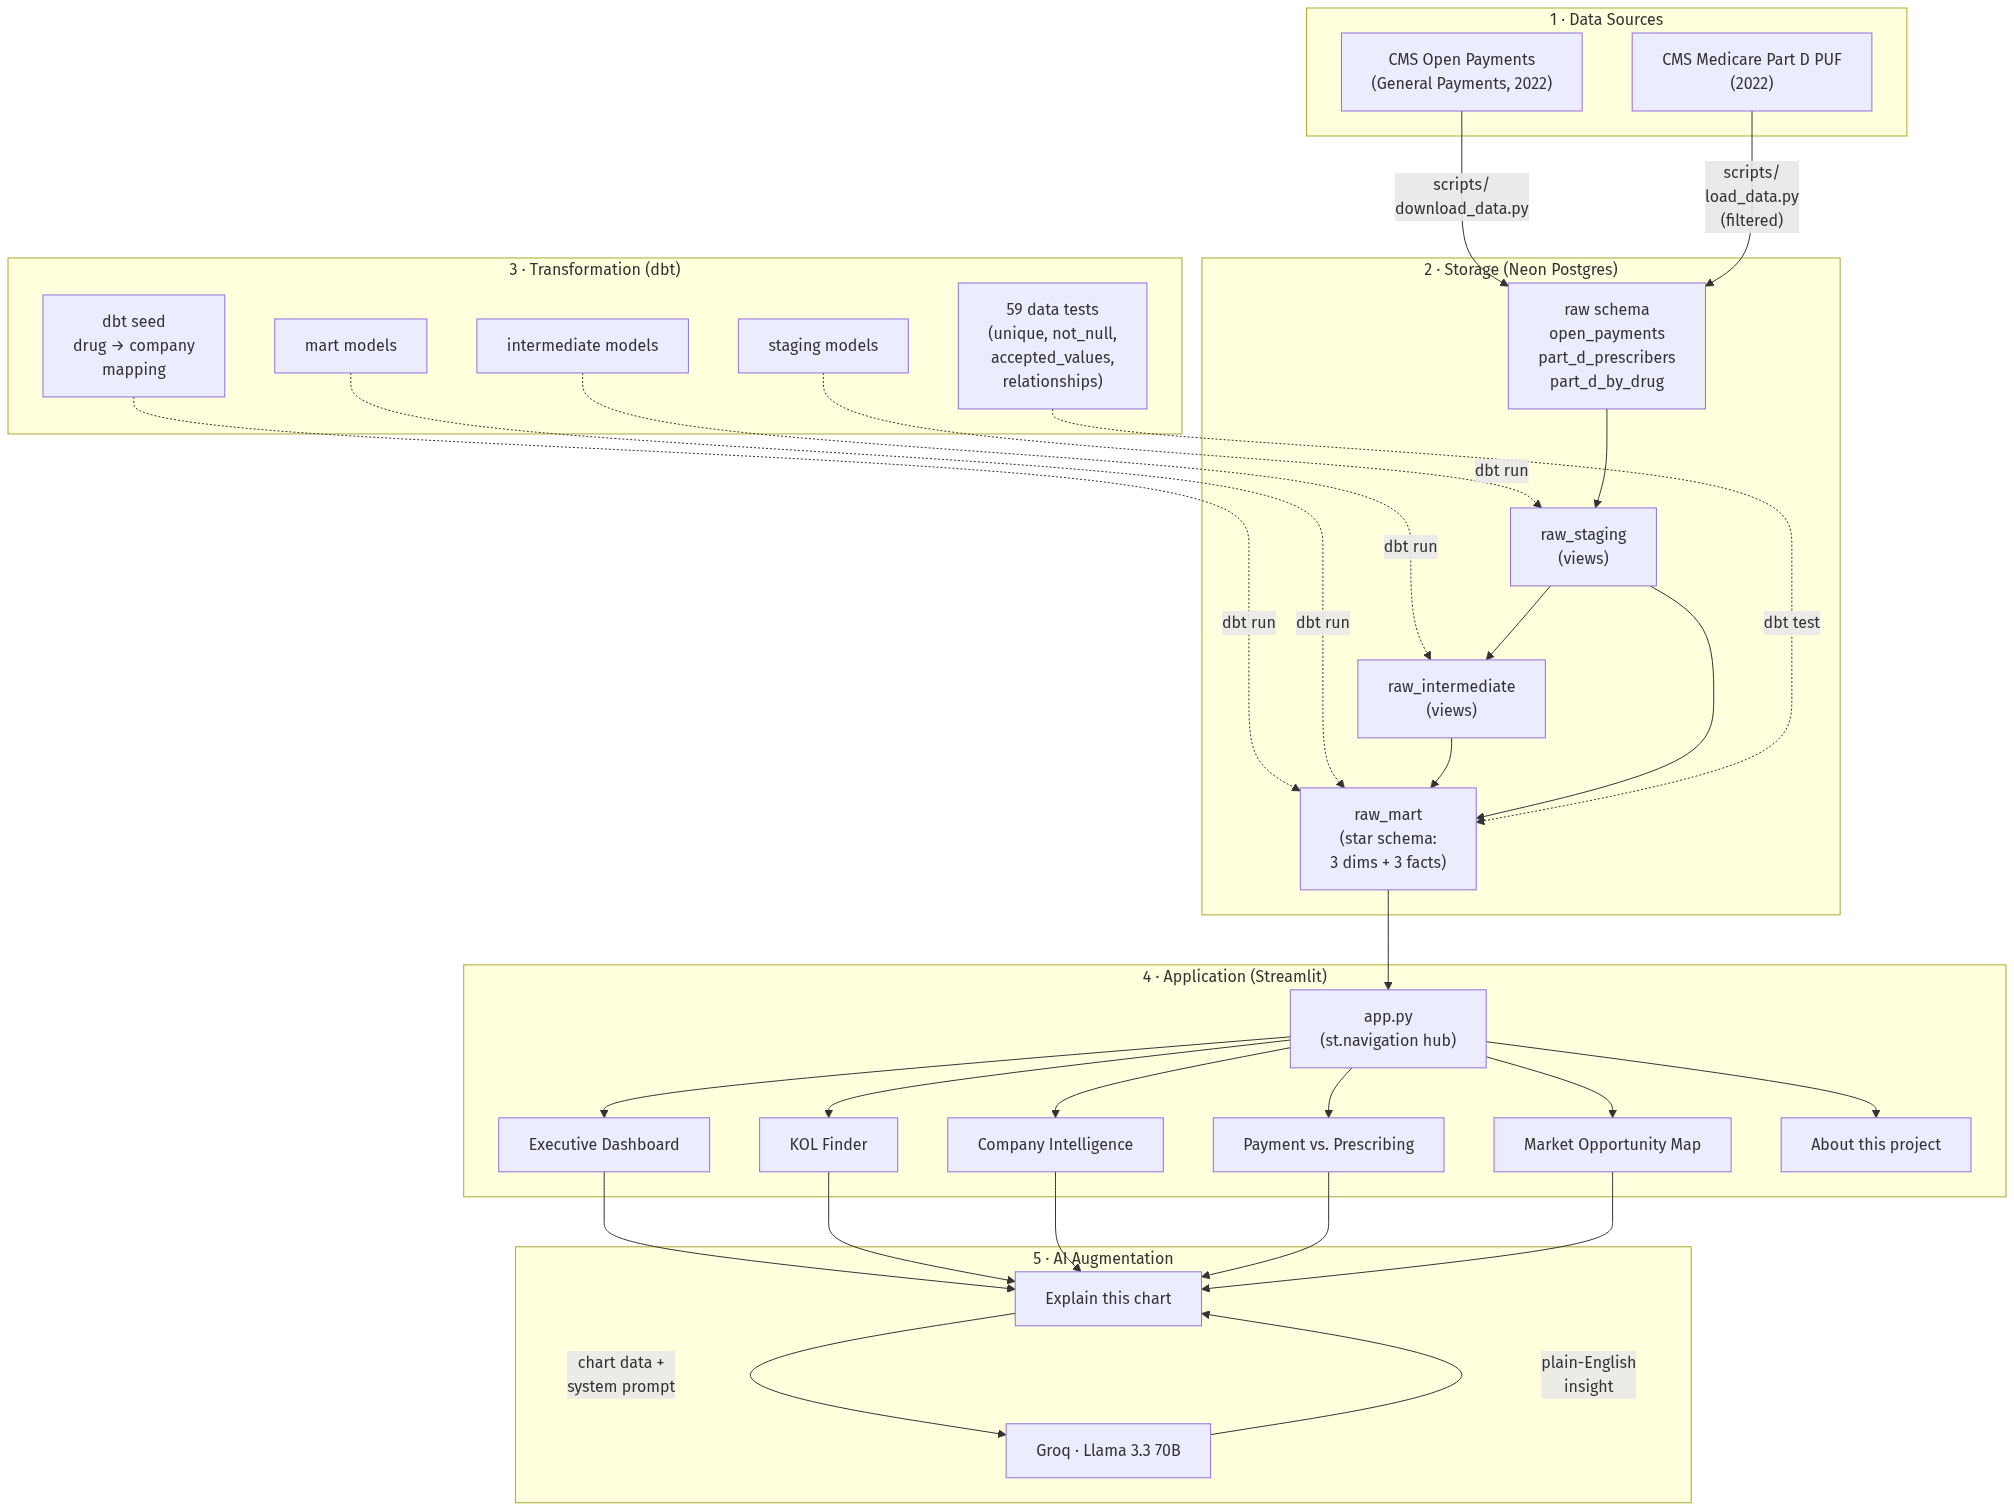
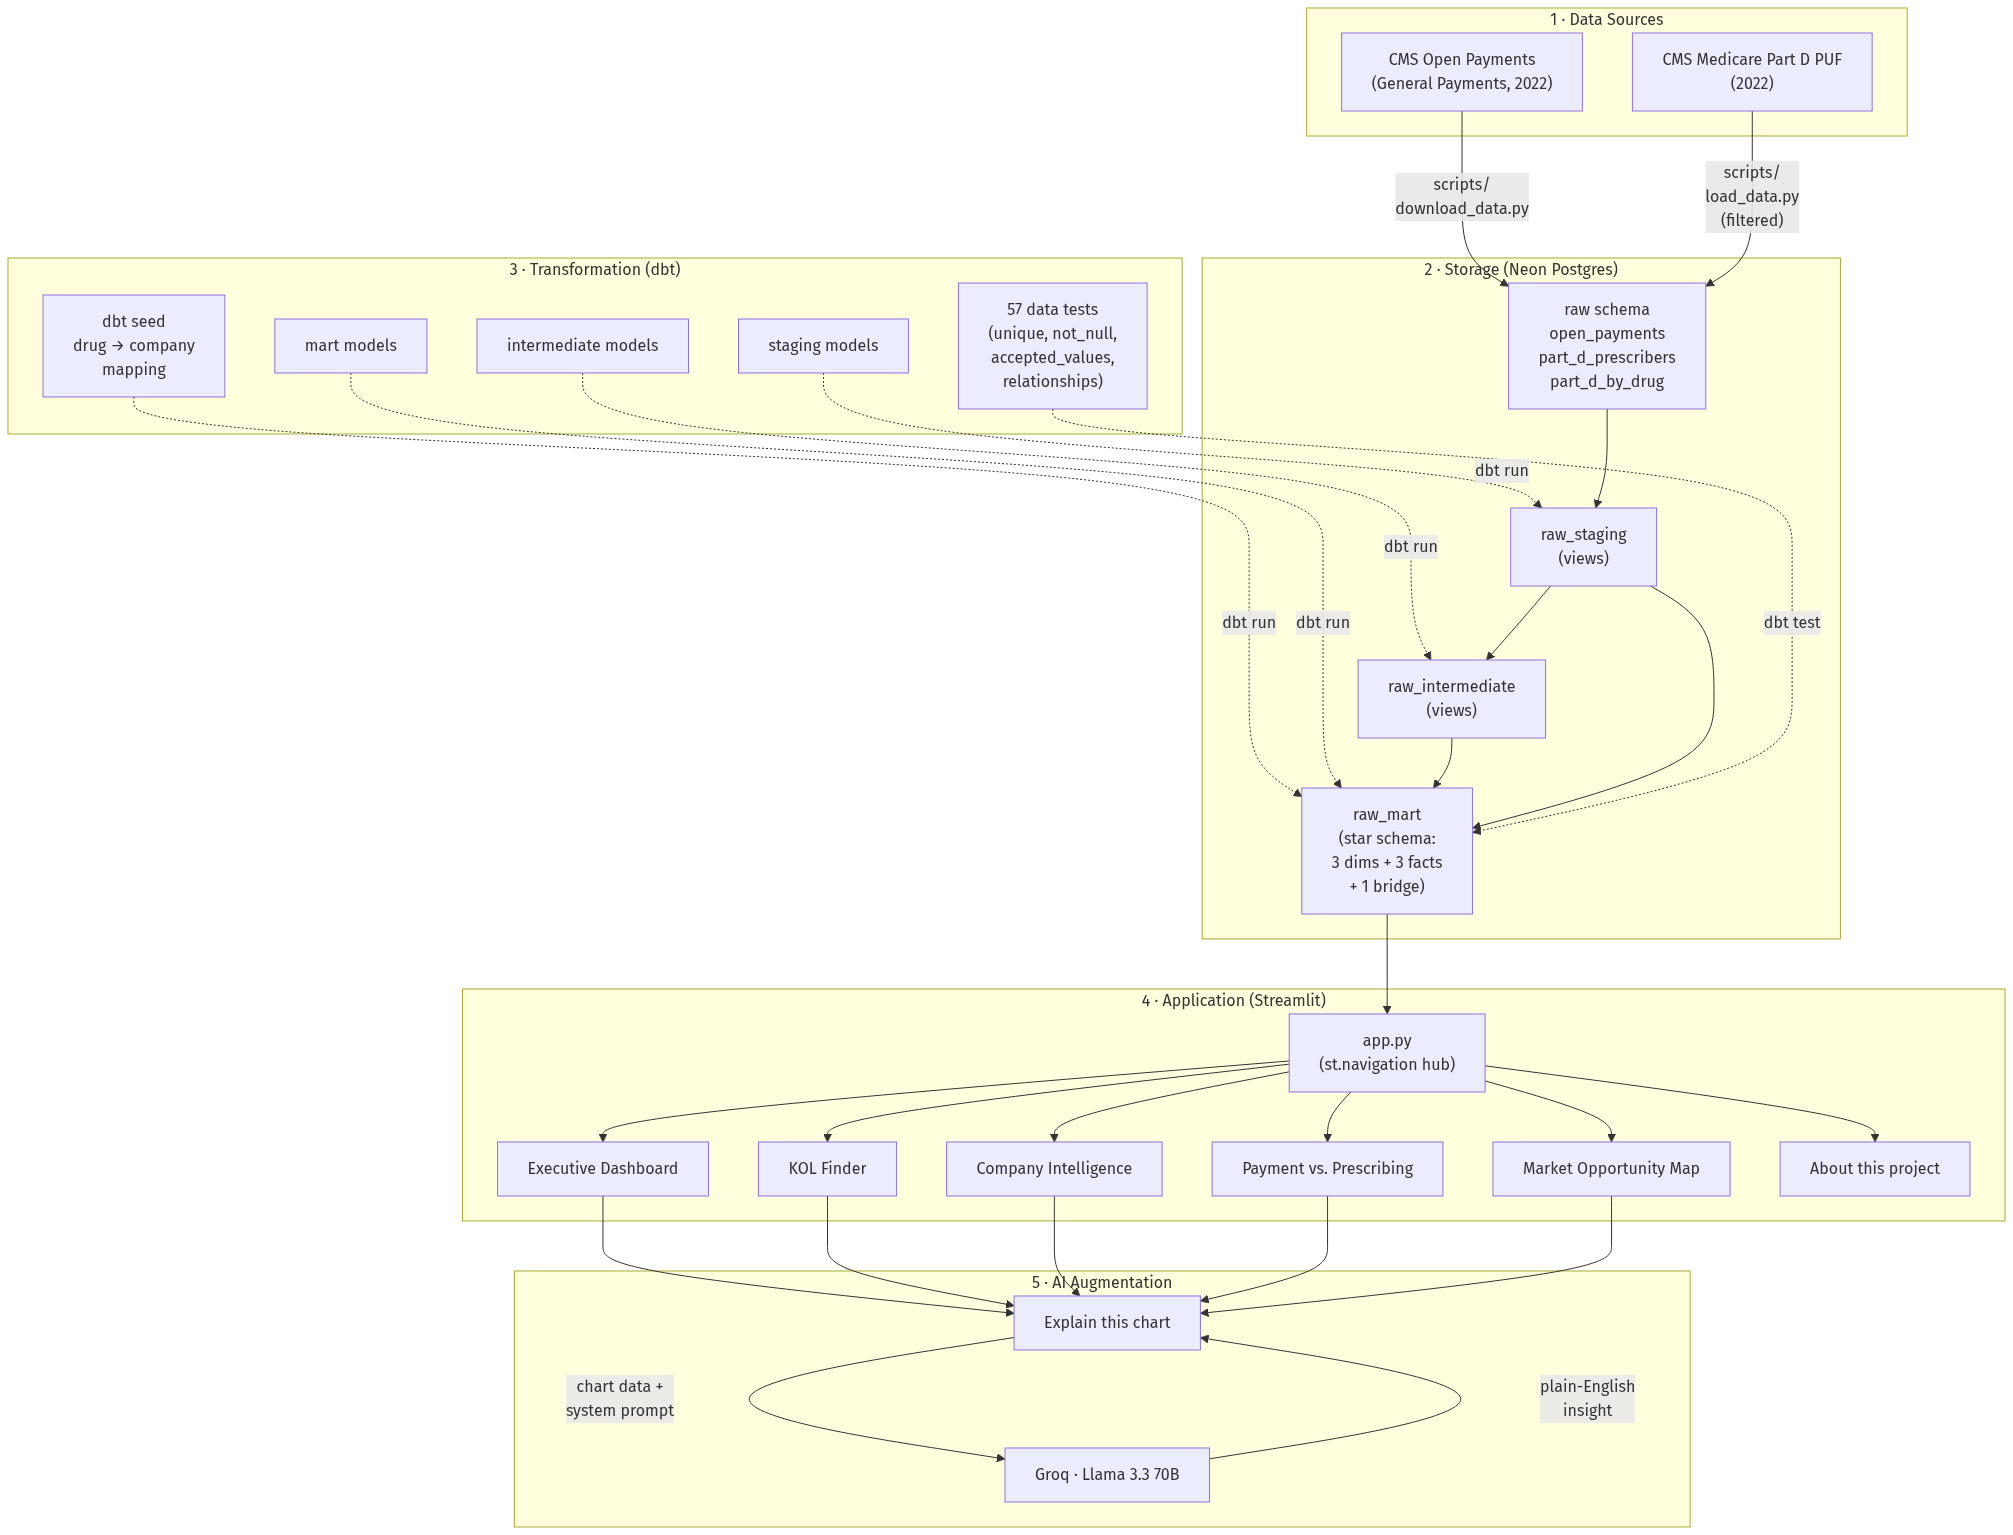
docs: sync to current model state (13 models, 57 tests, bridge)
After the KOL Finder perf fix (400x speedup), the project now has:
- 13 dbt models (was 12 — added bridge_physician_company_payments)
- 57 data-quality tests (was 59 — dropped two prescription_id tests
  when we slimmed fact_prescriptions)
- 3 dims + 3 facts + 1 helper bridge in the mart layer

Updated references across:
- README.md (architecture diagram counts, deep-dive link copy,
  setup test count)
- docs/ARCHITECTURE.md (mart count, dbt lineage diagram now shows
  bridge + indexed fact_prescriptions; rewrote the
  "materialization strategy" callout to explain the table-vs-view
  decisions and the perf rationale)
- docs/DATA_MODEL.md (added Helper subsection for the bridge,
  test-count breakdown, materialization column added to fact table)
- streamlit_app/views/about.py (13 models / 57 tests in the
  "What it demonstrates" bullet)
- docs/images/03-dbt-lineage.png regenerated with the bridge node
  visible in the mart subgraph

diff --git a/streamlit_app/views/about.py b/streamlit_app/views/about.py
@@ -43,9 +43,10 @@ sits behind the work that teams at ZS Associates, IQVIA, Komodo Health,
 AbbVie, and Tempus AI do every day for pharma clients. Specifically, it
 exercises:
 
-- **Analytics engineering** — a 12-model dbt project laid out in
+- **Analytics engineering** — a 13-model dbt project laid out in
   staging → intermediate → mart layers, with a proper star schema
-  (4 dimensions, 3 facts) and 59 passing data-quality tests
+  (3 dimensions, 3 facts, 1 helper bridge) and 57 passing
+  data-quality tests, indexed for fast filter lookups
 - **Advanced SQL** — window functions, percentile aggregations, full
   outer joins, CTE-based ranking, cross-source NPI matching
 - **Cloud data warehouse** — Neon Postgres on the free tier, with

diff --git a/docs/ARCHITECTURE.md b/docs/ARCHITECTURE.md
@@ -25,7 +25,7 @@ flowchart TB
         RAW["raw schema<br/>open_payments<br/>part_d_prescribers<br/>part_d_by_drug"]
         STG["raw_staging<br/>(views)"]
         INT["raw_intermediate<br/>(views)"]
-        MART["raw_mart<br/>(star schema:<br/>3 dims + 3 facts)"]
+        MART["raw_mart<br/>(star schema:<br/>3 dims + 3 facts<br/>+ 1 bridge)"]
     end
 
     subgraph TRANSFORM["3 · Transformation  (dbt)"]
@@ -33,7 +33,7 @@ flowchart TB
         STG_M["staging models"]
         INT_M["intermediate models"]
         MART_M["mart models"]
-        TESTS["59 data tests<br/>(unique, not_null,<br/>accepted_values,<br/>relationships)"]
+        TESTS["57 data tests<br/>(unique, not_null,<br/>accepted_values,<br/>relationships)"]
     end
 
     subgraph APP["4 · Application  (Streamlit)"]
@@ -131,9 +131,9 @@ storage cap while preserving the headline analyses.
 
 ## 3. dbt model lineage
 
-Twelve models, organized in three layers. dbt builds them bottom-up
-based on `ref()` calls. Dashed lines are FK relationships that the
-schema tests enforce.
+Thirteen models, organized in three layers. dbt builds them bottom-up
+based on `ref()` calls. Tables (pink/red) materialize; views (light fill)
+recompute on every query.
 
 ```mermaid
 flowchart TB
@@ -161,8 +161,9 @@ flowchart TB
         DIM_D["dim_drug<br/>(table)"]
         DIM_P["dim_physician<br/>(table)"]
         FACT_PAY["fact_payments<br/>(view)"]
-        FACT_RX["fact_prescriptions<br/>(view)"]
+        FACT_RX["fact_prescriptions<br/>(table + idx)"]
         FACT_PP["fact_payment_<br/>prescribing<br/>(view)"]
+        BRIDGE["bridge_physician_<br/>company_payments<br/>(table + idx)"]
     end
 
     S_OP --> STG_OP
@@ -187,22 +188,34 @@ flowchart TB
     INT_PA --> FACT_PP
     INT_DR --> FACT_PP
     DIM_P --> FACT_PP
+    INT_PA --> BRIDGE
 
     style DIM_C fill:#FCE7F3,stroke:#9F1239,color:#0F172A
     style DIM_D fill:#FCE7F3,stroke:#9F1239,color:#0F172A
     style DIM_P fill:#FCE7F3,stroke:#9F1239,color:#0F172A
     style FACT_PAY fill:#FEE2E2,stroke:#991B1B,color:#0F172A
-    style FACT_RX fill:#FEE2E2,stroke:#991B1B,color:#0F172A
+    style FACT_RX fill:#FEE2E2,stroke:#991B1B,color:#0F172A,stroke-width:2px
     style FACT_PP fill:#FEE2E2,stroke:#991B1B,color:#0F172A
+    style BRIDGE fill:#DBEAFE,stroke:#1E40AF,color:#0F172A,stroke-width:2px
 ```
 
-**Why dims are tables and facts are views:** the dims are tiny and
-joined to often, so we materialize. The facts have many rows but
-mostly pass-through logic, so views keep us under Neon's storage cap.
-`fact_payment_prescribing` is a full-outer-join of two intermediates —
-a *table* would be ~150 MB; a *view* recomputes in ~3 sec on demand
-and Streamlit caches for 10 minutes. The right trade-off for free-tier
-infra.
+**Materialization strategy** (was reverse-engineered from a 400× perf
+fix):
+
+- **Dims** are materialized as tables — tiny and joined to often
+- **`fact_prescriptions`** is a **table** with indexes on
+  `therapeutic_class` and `physician_npi`. Was a view originally;
+  filtering by therapeutic_class through the chained-view path took
+  ~80 seconds. As an indexed table, the same query is ~1 second
+- **`bridge_physician_company_payments`** is a small mart **table**
+  that exposes just `(physician_npi × company_name × total_payment_usd)`
+  from the intermediate aggregation. KOL Finder queries hit this
+  instead of `fact_payment_prescribing` (which would require computing
+  a 1.2M-row FULL OUTER JOIN on every click)
+- **`fact_payments`** and **`fact_payment_prescribing`** remain views —
+  the heavy fact join exceeds Neon's free-tier compute budget when
+  materialized in one shot. Streamlit's 10-min query cache makes the
+  view approach acceptable for the pages that use them
 
 ---
 

diff --git a/docs/DATA_MODEL.md b/docs/DATA_MODEL.md
@@ -94,11 +94,17 @@ erDiagram
 
 ### Facts
 
-| Table | Grain | Used by |
-|---|---|---|
-| `fact_payments` | 1 row per Open Payments transaction | Executive Dashboard, Company Intelligence, Market Opportunity Map |
-| `fact_prescriptions` | 1 row per (physician × drug) | KOL Finder, Market Opportunity Map |
-| `fact_payment_prescribing` | 1 row per (physician × company) — **paired view of payments AND prescribing** | Payment vs. Prescribing (the headline analytical view) |
+| Table | Grain | Materialization | Used by |
+|---|---|---|---|
+| `fact_payments` | 1 row per Open Payments transaction | view | Executive Dashboard, Company Intelligence, Market Opportunity Map |
+| `fact_prescriptions` | 1 row per (physician × drug) | **table** + indexes on `therapeutic_class` and `physician_npi` | KOL Finder, Market Opportunity Map |
+| `fact_payment_prescribing` | 1 row per (physician × company) — **paired view of payments AND prescribing** | view | Payment vs. Prescribing (the headline analytical view) |
+
+### Helper
+
+| Table | Grain | Materialization | Used by |
+|---|---|---|---|
+| `bridge_physician_company_payments` | 1 row per (physician × company) — payments only, no FULL-OUTER-JOIN overhead | **table** + index on `company_name` | KOL Finder (avoids the 1.2M-row join cost) |
 
 ---
 
@@ -134,17 +140,17 @@ unpaid, within specialty).
 ## Data quality enforcement
 
 Every dim and fact has tests in its `_schema.yml`. The dbt test run
-executes 59 assertions on every build:
+executes 57 assertions on every build:
 
 ```mermaid
 flowchart LR
-    UNIQUE["unique<br/>(13 tests)"]
-    NN["not_null<br/>(28 tests)"]
+    UNIQUE["unique<br/>(12 tests)"]
+    NN["not_null<br/>(27 tests)"]
     AV["accepted_values<br/>(3 tests)"]
     REL["relationships<br/>(8 tests)"]
     EXP["dbt_expectations<br/>range checks<br/>(7 tests)"]
 
-    UNIQUE --> ALL["dbt test ✓ 59/59 passing"]
+    UNIQUE --> ALL["dbt test ✓ 57/57 passing"]
     NN --> ALL
     AV --> ALL
     REL --> ALL
@@ -201,8 +207,8 @@ See `METHODOLOGY.md` § 0 for the full privacy rationale.
 cd dbt_project
 dbt deps                   # one-time: pull dbt-utils + dbt-expectations
 dbt seed --profiles-dir .  # load drug→company seed
-dbt run --profiles-dir .   # build all 12 models in dependency order
-dbt test --profiles-dir .  # run all 59 data-quality tests
+dbt run --profiles-dir .   # build all 13 models in dependency order
+dbt test --profiles-dir .  # run all 57 data-quality tests
 dbt docs generate          # generate the interactive lineage site
 dbt docs serve             # open it in your browser at localhost:8080
 ```

diff --git a/README.md b/README.md
@@ -38,11 +38,11 @@ flowchart TB
         RAW["raw schema<br/>(filtered: top 10 mfrs,<br/>≥ $50 payments)"]
         STG["raw_staging  (views)"]
         INT["raw_intermediate  (views)"]
-        MART["raw_mart<br/>★ star schema:<br/>3 dims + 3 facts"]
+        MART["raw_mart<br/>★ star schema:<br/>3 dims + 3 facts + 1 bridge"]
     end
 
     subgraph TRANSFORM["3 · Transformation  (dbt)"]
-        DBT["12 models<br/>59 passing tests"]
+        DBT["13 models<br/>57 passing tests"]
     end
 
     subgraph APP["4 · Application  (Streamlit)"]
@@ -128,7 +128,7 @@ erDiagram
 
 | Document | Covers |
 |---|---|
-| [**docs/ARCHITECTURE.md**](./docs/ARCHITECTURE.md) | dbt model lineage (all 12 models), user-interaction sequence, LLM "Explain this chart" flow |
+| [**docs/ARCHITECTURE.md**](./docs/ARCHITECTURE.md) | dbt model lineage (all 13 models), user-interaction sequence, LLM "Explain this chart" flow |
 | [**docs/DATA_MODEL.md**](./docs/DATA_MODEL.md) | Full table reference, data-quality enforcement (59 tests), privacy-by-design |
 | [**METHODOLOGY.md**](./METHODOLOGY.md) | Statistical formulas (lift ratio, HHI, investment ratio), the BMS reporting quirk, what we can and cannot conclude |
 
@@ -269,7 +269,7 @@ cd dbt_project
 dbt deps                          # install dbt packages
 dbt seed --profiles-dir .         # load the drug→company mapping
 dbt run --profiles-dir .          # build all models
-dbt test --profiles-dir .         # run all 59 data-quality tests
+dbt test --profiles-dir .         # run all 57 data-quality tests
 cd ..
 
 # 8. Run the Streamlit app